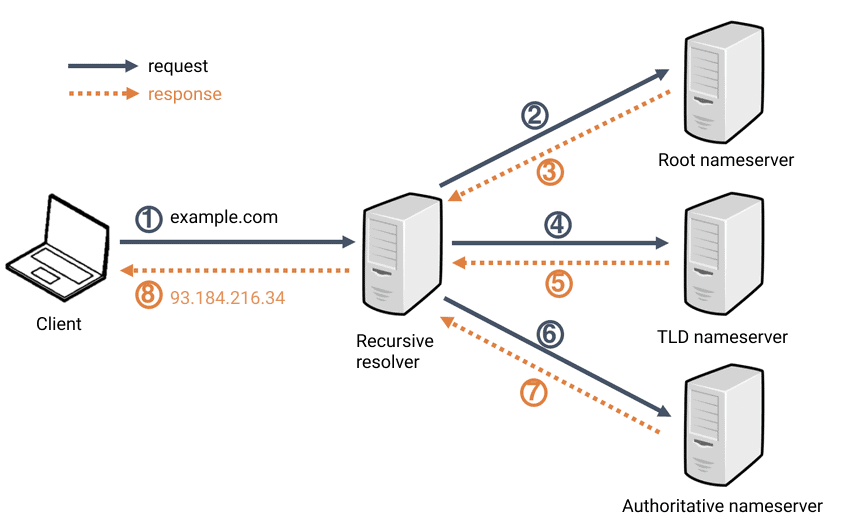
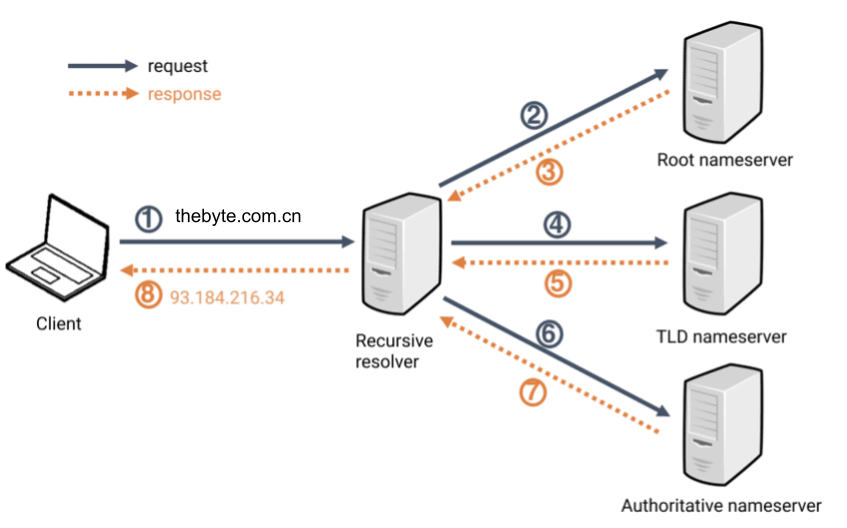
校验第二章内容

diff --git a/http/latency.md b/http/latency.md
@@ -4,21 +4,24 @@
 
 ## 2.2.1 请求阶段分析
 
-一个完整、无任何缓存、未复用连接的 HTTPS 请求需要经过以下几个阶段：DNS 域名解析、TCP 握手、SSL 握手、服务器处理、内容传输。
+一个完整、无任何缓存、未复用连接的 HTTPS 请求需要经过以下 5 个阶段：**DNS 域名解析、TCP 握手、SSL 握手、服务器处理、内容传输**。
+
+如图 2-2 请求阶段分析所示，这些阶段共需要 5 个 RTT[^2] = 1 RTT（域名解析）+ 1 RTT（TCP 握手）+ 2 RTT（SSL 握手）+ 1 RTT（HTTP 内容请求传输）。
 
 <div  align="center">
 	<img src="../assets/http-process.png" width = "450"  align=center />
-	<p>图2-2 HTTPS（使用 TLS1.2 协议）请求阶段分析</p>
+	<p>图2-2 HTTPS（TLS1.2 协议）请求阶段分析</p>
 </div>
 
-如图 2-2 所示（素材来源 [^1]），一个 HTTPS 请求共需要 5 个 RTT[^2] = 1 RTT（域名解析）+ 1 RTT（TCP 握手）+ 2 RTT（SSL 握手）+ 1 RTT（HTTP 内容请求传输）。
+RTT 是评估服务延迟的重要因素。举个例子，假设北京到美国洛杉矶的 RTT 延迟为 190 毫秒，从北京访问美国洛杉矶 HTTP 服务时延就是`5*190+后端业务时延（ms）`，「5」代表的是 HTTPS 请求的 5 个 RTT。
 
-举个例子，说明接口延迟的计算和影响：假设北京到美国洛杉矶的 RTT 延迟为 190 毫秒，我们从北京访问美国洛杉矶的一个 HTTP 服务，整个交互过程时延计算是`5*190+后端业务延时`。其中，"5"代表的是 HTTPS 请求的 5 个环节，每个环节都需要一个 RTT 的时间。因为网络延迟始终会受到物理环境的制约，无论使用什么技术、如何优化，950ms 的指标将会很难突破，所以我们的优化策略也是以减少请求环节、链路优化、降低 SSL 计算量为主。
+因为 RTT 网络延受到物理环境制约，使用纯粹的技术手段很难突破 950ms 指标。所以，这也指导我们优化策略以减少请求环节、链路优化、降低 SSL 计算量为主。
 
 ## 2.2.2 请求阶段耗时分析
 
-HTTPS 请求的各个阶段可以使用 curl 命令进行详细的耗时分析[^3]。如表 2-2 所示， curl 提供了详细的耗时分析选项，这样我们就可以更准确地掌握每一个环节的消耗时间，进一步提升网络优化的效率和精度。
+HTTPS 请求的各个阶段可以使用 curl 工具进行详细的耗时分析[^3]。
 
+如表 2-2 所示，curl 提供了详细的耗时分析选项，可以让我们更准确地掌握每一个环节的耗时、找准问题源头，从而提升网络优化的效率和质量。
 
 表 2-2 curl 网络请求阶段分析
 | 请求阶段 | 释义 |
@@ -31,7 +34,7 @@ HTTPS 请求的各个阶段可以使用 curl 命令进行详细的耗时分析[^
 | time_starttransfer | 从请求开始到内容传输前的时间 |
 | time_total | 从请求开始到完成的总耗时 |
 
-对一个接口使用 curl 测试：
+对「https://www.thebyte.com.cn」(一个简单的静态网页) 使用 curl 测试：
 
 ```plain
 $ curl -w '\n time_namelookup=%{time_namelookup}\n time_connect=%{time_connect}\n time_appconnect=%{time_appconnect}\n time_redirect=%{time_redirect}\n time_pretransfer=%{time_pretransfer}\n time_starttransfer=%{time_starttransfer}\n time_total=%{time_total}\n' -o /dev/null -s 'https://www.thebyte.com.cn/'
@@ -45,7 +48,7 @@ time_starttransfer=0.088528
 time_total=0.088744
 ```
 
-业务常关注的性能指标有：域名解析请求耗时、TCP 建立耗时、TTFB（Time To First Byte，首字节时间）等，表 2-3 为计算方式及说明。
+根据测试结果，可以计算出一些需要关注的性能指标，例如域名解析请求耗时、TCP 建立耗时、TTFB（Time To First Byte，首字节时间）等，表 2-3 为计算方式及说明。
 
 表 2-3 网络请求耗时计算
 
@@ -59,10 +62,9 @@ time_total=0.088744
 | 总耗时 = time_total ||
 
 
-`https://www.thebyte.com.cn`测试的结果显示域名解析时间大约占据了总时间的 28%，TCP 连接大约占据了总时间的 9%，而 SSL 层耗时则占据了总时间的近 50%。
-由此可见，如果我们想要降低 HTTPS 接口延迟，那么优化域名解析环节和 SSL 这两个阶段将会为我们带来显著的性能提升。
+根据对「https://www.thebyte.com.cn」测试的结果显示域名解析时间大约占据了总时间的 28%，TCP 连接大约占据了总时间的 9%，而 SSL 层耗时则占据了总时间的近 50%。
 
-优化工作的第一步，就先从域名解析环节开始。
+由此可见，如果我们想要降低 HTTPS 接口延迟，那么优化域名解析环节和 SSL 这两个阶段将会为我们带来显著的性能提升。
 
 [^1]: 参见 https://blog.cloudflare.com/a-question-of-timing/
 [^2]: RTT（Round-Trip Time）是网络请求从起点到目的地然后再回到起点所花费的时长。

diff --git a/network/latency.md b/network/latency.md
@@ -2,7 +2,7 @@
 
 既然目标是「足够快」，那么就需要对计算机中的「快」有个基本了解。
 
-伯克利大学有个动态网页[^1]汇总了每年计算机中各类操作耗时、延迟的变化。笔者整理了 2020 年的数据供读者参考，如表 2-1 所示，了解这些延迟指标有助于设计和比较不同的解决方案以及评估服务质量。
+伯克利大学有个动态网页[^1]汇总了每年计算机中各类操作耗时、延迟的变化。本节内容整理了 2020 年的数据供读者参考，如表 2-1 所示，了解这些延迟指标有助于设计和比较不同的解决方案以及评估服务质量。
 
 <p>表2-1 计算机中各类延迟数据参考</p>
 
